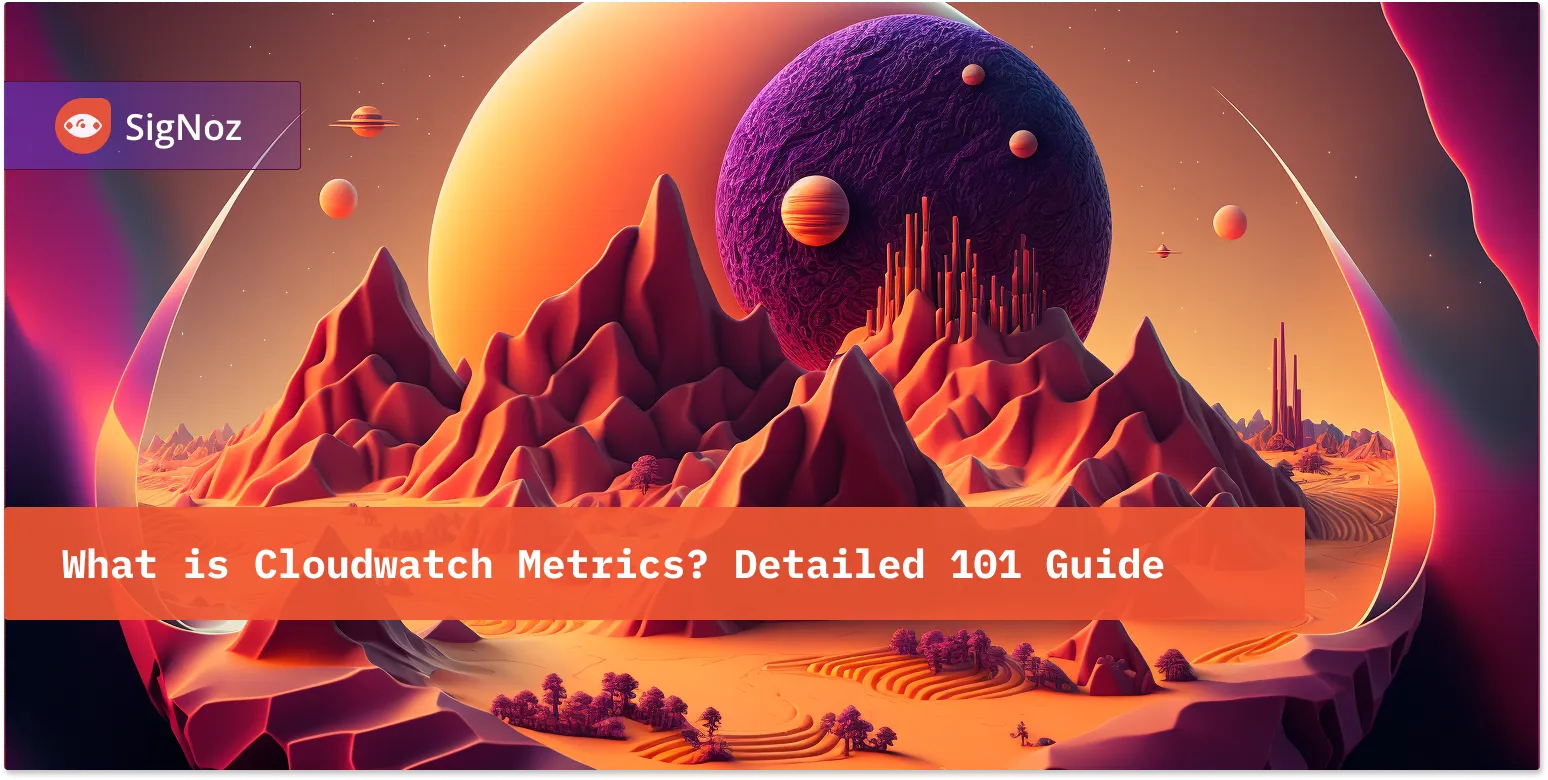
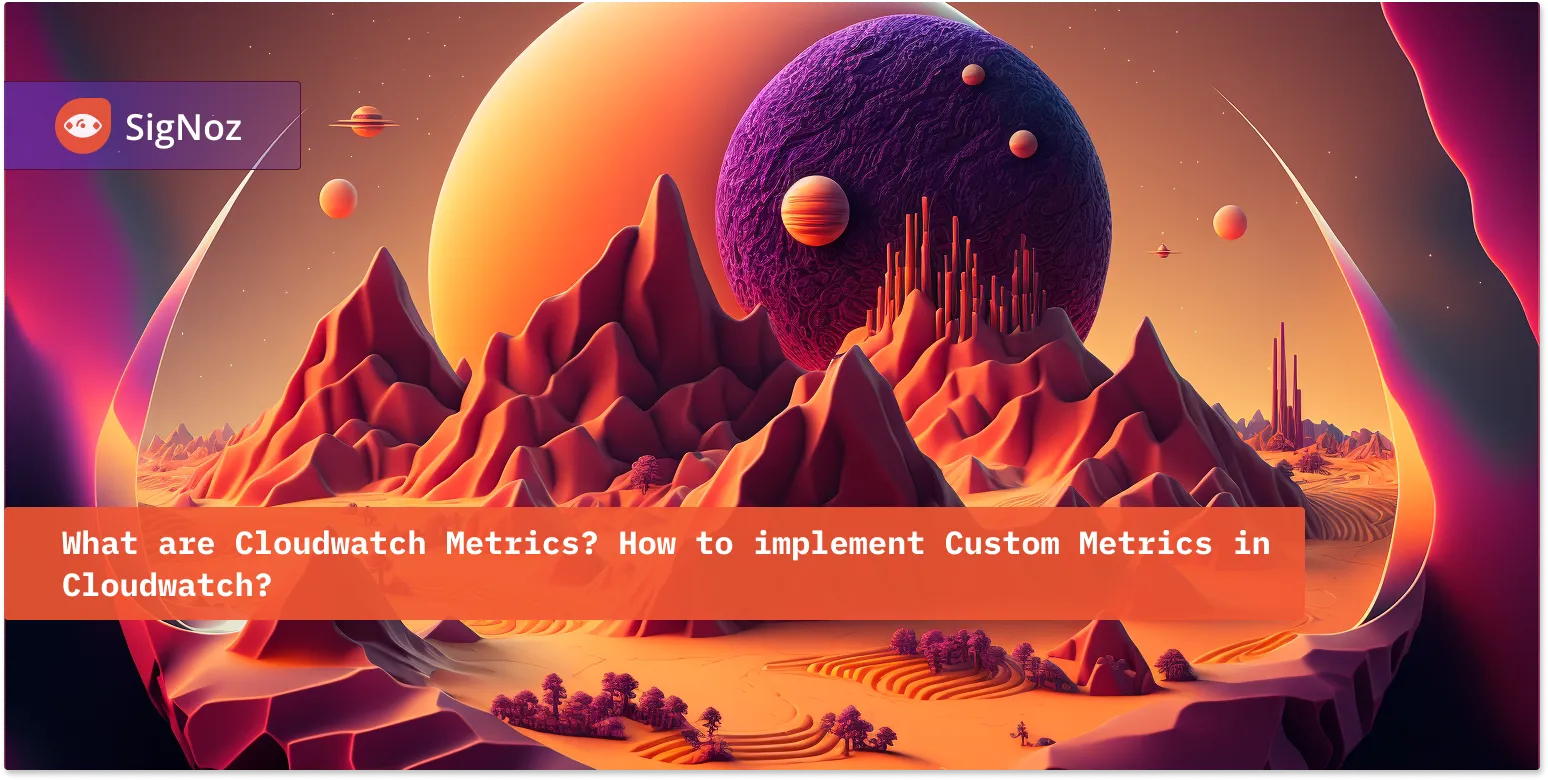
Updated cloudwatch metrics blog (#1451)

Changed region(s): [[0.031, 0.6769, 0.8372, 0.7692]]

diff --git a/blog/2024-01-10-cloudwatch-metrics.md b/blog/2024-01-10-cloudwatch-metrics.md
@@ -1,11 +1,11 @@
 ---
-title: What is Cloudwatch Metrics? Detailed 101 Guide
-slug: what-is-cloudwatch-metrics
-date: 2024-01-10
+title: What are Cloudwatch Metrics? How to implement Custom Metrics in Cloudwatch?
+slug: cloudwatch-metrics
+date: 2024-01-13
 tags: [OpenTelemetry, AWS]
 authors: daniel
 description: CloudWatch metrics play a critical role in monitoring AWS resources and facilitating effective troubleshooting during system failures. In this guide, learn everything about Cloudwatch metrics, its types, custom metrics and...
-image: /img/blog/2024/01/cloudwatch-metrics-cover.jpeg
+image: /img/blog/2024/01/cloudwatch-metrics-cover-min.jpg
 hide_table_of_contents: false
 toc_min_heading_level: 2
 toc_max_heading_level: 2
